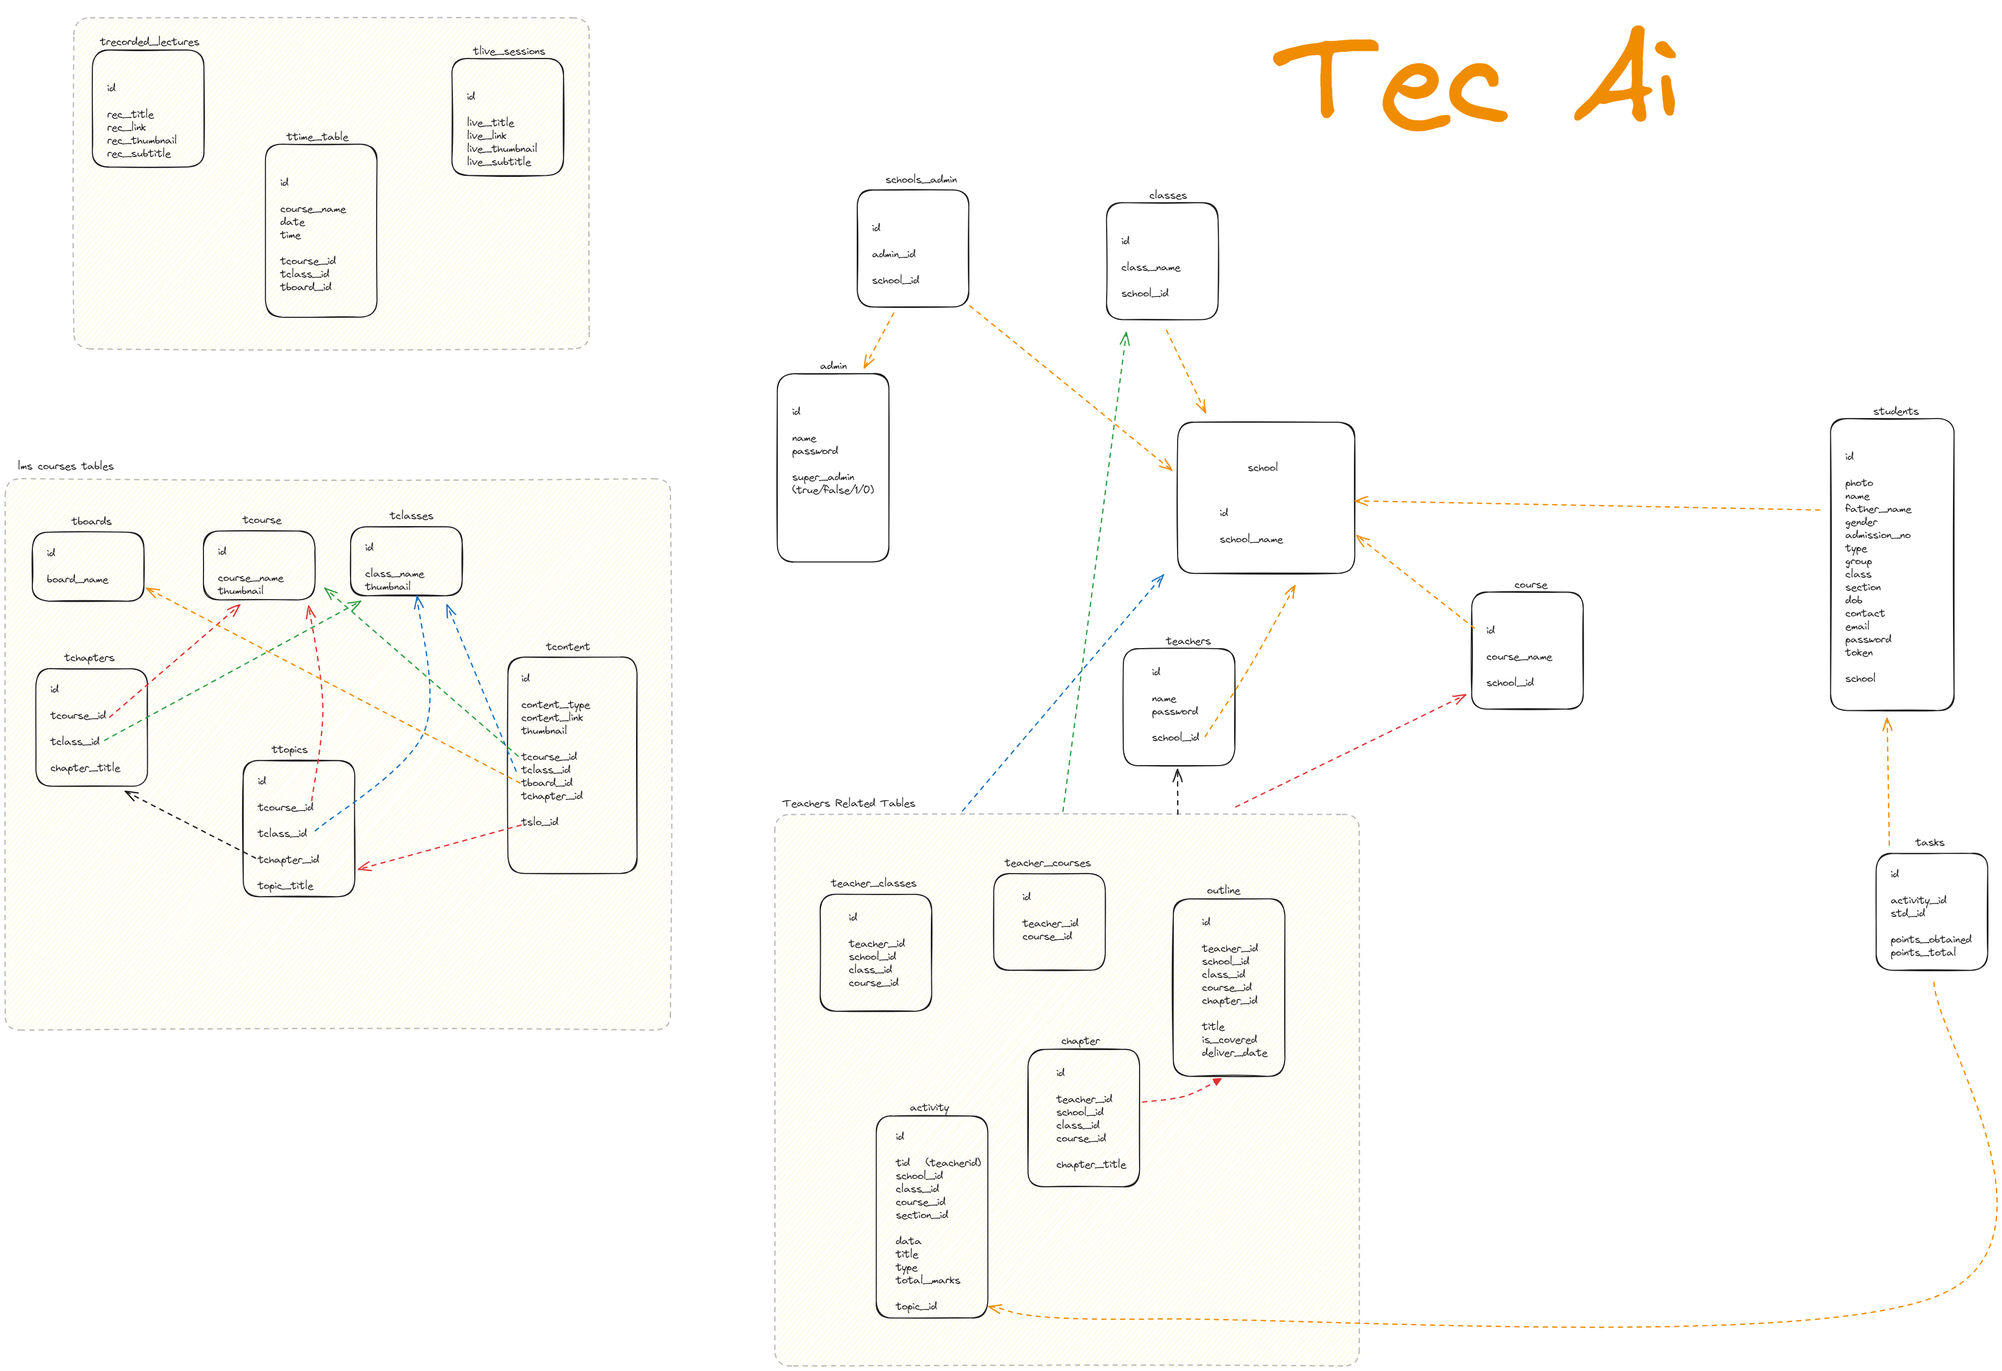
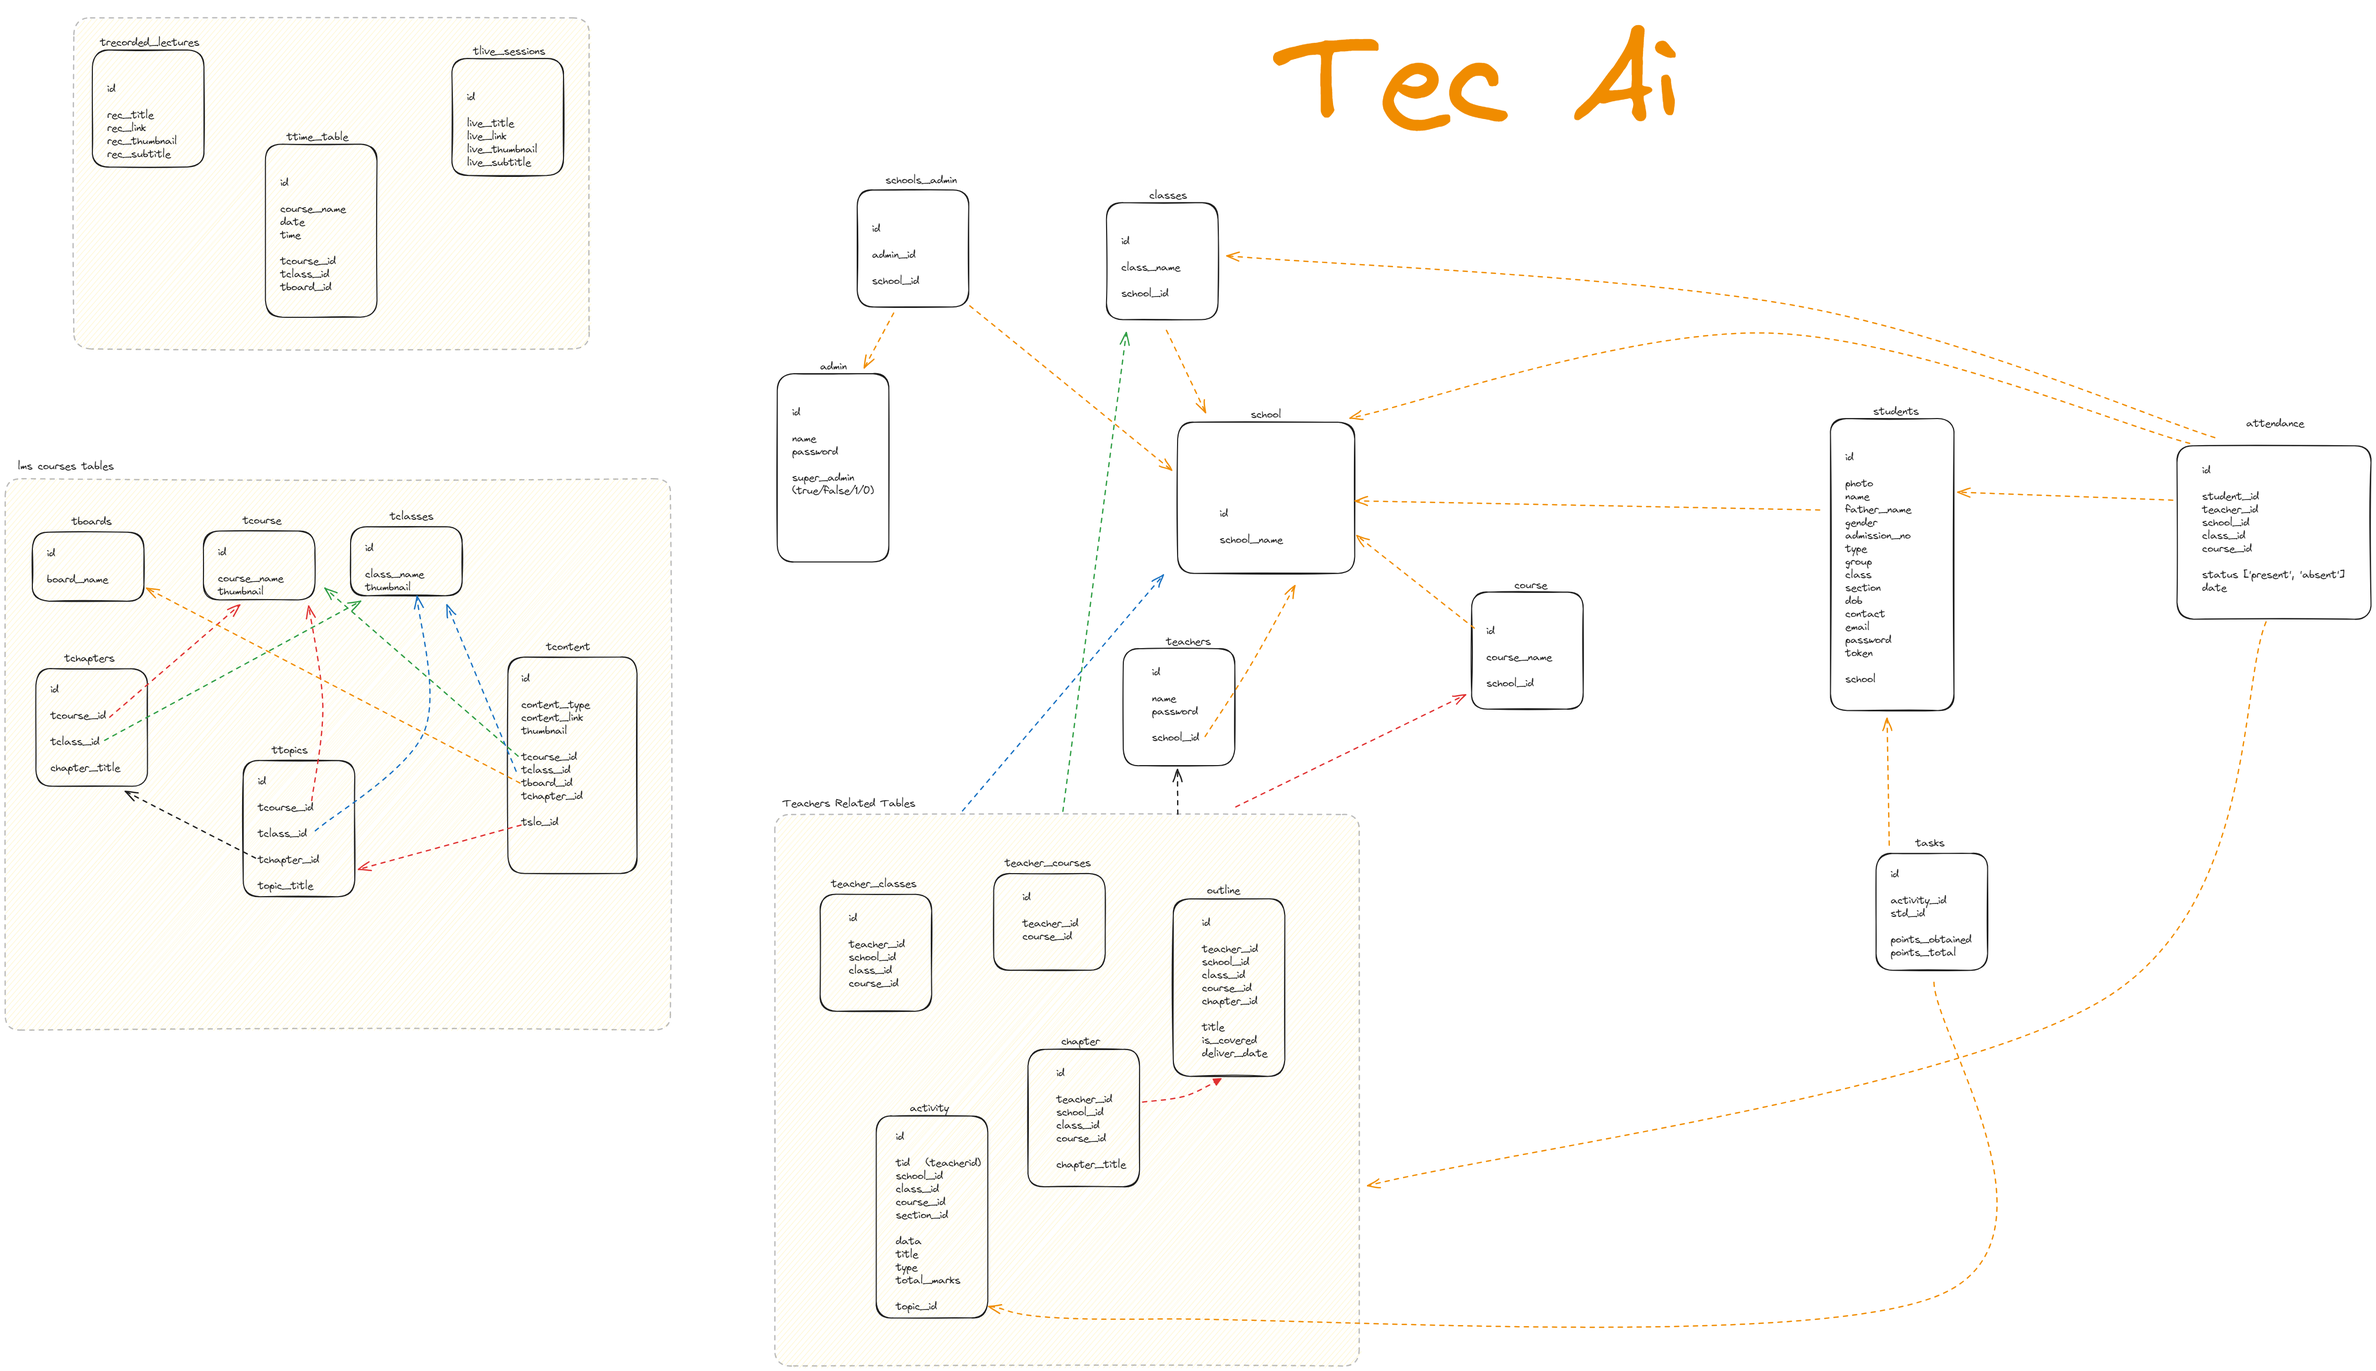
teacher can now add attendance

diff --git a/resources/views/dashboard/teachers/attendance/view.blade.php b/resources/views/dashboard/teachers/attendance/view.blade.php
@@ -10,71 +10,76 @@
         <div class="container-fluid">
             <div class="row mb-2">
                 <div class="col-sm-6">
-                    <h1 class="m-0">Teacher Classes View</h1>
+                    <h1 class="m-0">Teacher Attendance View</h1>
                 </div><!-- /.col -->
                 <div class="col-sm-6">
                     <ol class="breadcrumb float-sm-right">
                         <li class="breadcrumb-item"><a href="#">Home</a></li>
-                        <li class="breadcrumb-item">Classes</li>
+                        <li class="breadcrumb-item">Attendance</li>
                         <li class="breadcrumb-item active">Views</li>
                     </ol>
-                </div><!-- /.col -->
-            </div><!-- /.row -->
-        </div><!-- /.container-fluid -->
+                </div>
+            </div>
+            <div class="row">
+                <div class="col-md-4">
+                    <form  method="post" class="d-flex justify-content-start">
+                        @csrf
+                        @method('POST')
+                        <input type="date" name="date" value="{{ $date ?? '' }}" class="form-control">
+                       <input type="submit" value="filter" class="btn btn-primary">
+                    </form>
+                </div>
+                <div class="col-md-6"></div>
+                <div class="col-md-2">
+                    <a href="{{ route('teacher.attendances.create', ['course_id' => $course_id, 'class_id' => $class_id]) }}" class="btn btn-primary">Add Attendance</a>
+                </div>
+            </div>
+        </div>
     </div>
- 
-    <!-- /.content-header -->
-    <!-- Main content -->
+
     <section class="content">
         <div class="container-fluid">
-            <!-- Small boxes (Stat box) -->
+          
             <div class="card">
                 <div class="card-header">
-                    <h3 class="card-title">Classes</h3>
+                    <h3 class="card-title">Attendance</h3>
                 </div>
-                <!-- /.card-header -->
+               
                 <div class="card-body">
                     <table id="example1" class="table table-bordered table-striped">
                         <thead>
                             <tr>
-                                <th>Students</th>
-                                <th>Outline</th>
-                                <th>Attendance</th>
-                                <th>Grade</th>
-                                <th>Subject</th>
+                                <th>Actions</th>
+                                <th>Student</th>
+                                <th>Status</th>
+                                <th>Date</th>
                             </tr>
                         </thead>
                         <tbody>
                             
-                            @foreach ($classes as $item)
+                            @foreach ($attendance as $item)
                             <tr>
-                                <td class="d-flex justify-content-between" >
-                                    <a >
-                                       Students
+                                <td  >
+                                    <a href="#">
+                                       Edit
                                     </a>
                                 </td>
-                                <td>
-                                    <a href="{{ route('teacher.classe.outline.show', ['class_id' => $item->class_id , 'course_id' => $item->course_id]) }}">
-                                        <i class="fa fa-eye"></i>   outline
-                                    </a>
-                                </td>
-                                <td>
-                                    <a href="{{ route('teacher.attendances.view', ['class_id' => $item->class_id , 'course_id' => $item->course_id]) }}">
-                                        <i class="fa fa-eye"></i>   Attendance
-                                    </a>
-                                </td>
-                                <td>{{ $item->class_name }}</td>
-                                <td>{{ $item->course_name }}</td>
+                            
+                                <td>{{ $item->name }}</td>
+                                <td
+                                  style="color: {{ $item->status == 'present' ? 'green' : ($item->status == 'late' ? 'orange' : 'red') }};
+                                  font-weight: bold;"
+                                >{{ $item->status }}</td>
+                                <td>{{ $item->date }}</td>
                             </tr>
                             @endforeach
                         </tbody>
                         <tfoot>
                             <tr>
-                                <th>Students</th>
-                                <th>Outline</th>
-                                <th>Attendance</th>
-                                <th>Grade</th>
-                                <th>Subject</th>
+                                <th>Actions</th>
+                                <th>Student</th>
+                                <th>Status</th>
+                                <th>Date</th>
                             </tr>
                         </tfoot>
                     </table>
@@ -110,7 +115,7 @@
                 "responsive": true,
                 "lengthChange": false,
                 "autoWidth": false,
-                "buttons": ["copy", "csv", "excel", "pdf", "print", "colvis"]
+                "buttons": ["copy", "csv", "excel", "pdf", "print"]
             }).buttons().container().appendTo('#example1_wrapper .col-md-6:eq(0)');
 
         });

diff --git a/resources/views/dashboard/teachers/attendance/create.blade.php b/resources/views/dashboard/teachers/attendance/create.blade.php
@@ -1,0 +1,120 @@
+@extends('dashboard.common')
+
+@section('sidebar')
+    @include('dashboard.teachers.sidebar')
+@endsection
+
+@section('content')
+    <!-- Content Header (Page header) -->
+    <div class="content-header">
+        <div class="container-fluid">
+            <div class="row mb-2">
+                <div class="col-sm-6">
+                    <h1 class="m-0">Teacher Attendance Create</h1>
+                </div><!-- /.col -->
+                <div class="col-sm-6">
+                    <ol class="breadcrumb float-sm-right">
+                        <li class="breadcrumb-item"><a href="#">Home</a></li>
+                        <li class="breadcrumb-item">Attendance</li>
+                        <li class="breadcrumb-item active">Create</li>
+                    </ol>
+                </div>
+            </div>
+            <div class="row">
+                <div class="col-md-6"></div>
+                <div class="col-md-4">
+                    <select id="attendance-status" class="form-control">
+                        <option value="present">Present</option>
+                        <option value="absent">Absent</option>
+                        <option value="late">Late</option>
+                    </select>
+                </div>
+                <div class="col-md-2">
+                    <button type="button" id="update-attendance" class="btn btn-primary">Apply</button>
+                </div>
+            </div>
+        </div>
+    </div>
+
+    <!-- /.content-header -->
+    <!-- Main content -->
+    <section class="content">
+        <div class="container-fluid">
+            <!-- Small boxes (Stat box) -->
+            <div class="card">
+                <div class="card-header">
+                    <h3 class="card-title">Classes</h3>
+                </div>
+                <!-- /.card-header -->
+                <div class="card-body">
+                    <table id="example1" class="table table-bordered table-striped">
+                        <thead>
+                            <tr>
+                                <th>Actions</th>
+                                <th>Student</th>
+                                <th>Class</th>
+                                <th>Action</th>
+
+                            </tr>
+                        </thead>
+                        <tbody>
+                            <form method="POST">
+                                @foreach ($students as $item)
+                                    <tr>
+                                        <td>
+                                            <a href="#">
+                                                Edit
+                                            </a>
+                                        </td>
+
+                                        <td>{{ $item->name }}</td>
+                                        <td>{{ $item->class }}</td>
+                                        <td>
+                                            <select name="attendance[{{ $item->id }}]" class="form-control">
+                                                <option value="present">present</option>
+                                                <option value="absent">absent</option>
+                                                <option value="late">late</option>
+                                            </select>
+                                        </td>
+
+                                    </tr>
+                                @endforeach
+                        </tbody>
+                        <tfoot>
+                            <tr>
+                                <th>Actions</th>
+                                <th>Student</th>
+                                <th>Class</th>
+                                <th>Action</th>
+                            </tr>
+                        </tfoot>
+                    </table>
+                    <div class="row mt-3">
+                        <div class="col-md-9"></div>
+                        <div class="col-md-3">
+                            <button type="submit" class="btn btn-primary">Submit Attendance</button>
+                        </div>
+                    </div>
+                </div>
+                <!-- /.card-body -->
+            </div>
+            <!-- /.row -->
+            <!-- Main row -->
+
+            <!-- /.row (main row) -->
+        </div><!-- /.container-fluid -->
+    </section>
+    <!-- /.content -->
+@endsection
+
+
+@section('footer')
+<script>
+    $(document).ready(function() {
+        $('#update-attendance').click(function() {
+            var status = $('#attendance-status').val();
+            $('select[name^="attendance"]').val(status);
+        });
+    });
+</script>
+@endsection

diff --git a/app/Http/Controllers/AttendanceController.php b/app/Http/Controllers/AttendanceController.php
@@ -1,0 +1,101 @@
+<?php
+
+namespace App\Http\Controllers;
+
+use Illuminate\Http\Request;
+use App\Models\Attendance;
+use App\Models\students;
+
+class AttendanceController extends Controller
+{
+    public function TeacherViewAttendance(Request $request)
+    {
+
+        $class_id = $request->class_id;
+        $course_id = $request->course_id;
+
+        $date = now();
+
+        $attendance = Attendance::where('class_id', $class_id)
+            ->where('course_id', $course_id)
+            ->whereDate('date', '=', $date)
+            ->join('students', 'attendance.student_id', '=', 'students.id')
+            ->join('classes', 'attendance.class_id', '=', 'classes.id')
+            ->join('course', 'attendance.course_id', '=', 'course.id')
+            ->select('attendance.*', 'students.name', 'classes.class_name', 'course.course_name')
+            ->get();
+
+        return view('dashboard.teachers.attendance.view', compact('attendance', 'class_id', 'course_id'));
+    }
+    public function TeacherViewAttendanceByDate(Request $request)
+    {
+        $class_id = $request->class_id;
+        $course_id = $request->course_id;
+        $date = now();
+        if($request->date){
+            $date = $request->date;
+        }
+        $attendance = Attendance::where('class_id', $class_id)
+            ->where('course_id', $course_id)
+            ->whereDate('date', '=', $date)
+            ->join('students', 'attendance.student_id', '=', 'students.id')
+            ->join('classes', 'attendance.class_id', '=', 'classes.id')
+            ->join('course', 'attendance.course_id', '=', 'course.id')
+            ->select('attendance.*', 'students.name', 'classes.class_name', 'course.course_name')
+            ->get();
+
+        return view(
+            'dashboard.teachers.attendance.view',
+            compact(
+                'attendance',
+                'class_id',
+                'course_id',
+                'date'
+            )
+        );
+
+    }
+    public function TeacherCreateAttendance(Request $request)
+    {
+
+        $class_id = $request->class_id;
+        $course_id = $request->course_id;
+
+        $school_id = session('user')['school_id'];
+
+        $students = students::where('school', $school_id)
+            ->join('classes', 'students.class', '=', 'classes.class_name')
+            ->where('classes.id', $class_id)
+            ->select('students.*', 'classes.class_name')
+            ->get();
+
+
+        return view('dashboard.teachers.attendance.create', compact('class_id', 'course_id', 'students'));
+    }
+
+    public function TeacherStoreAttendance(Request $request)
+    {
+        $attendanceData = $request->input('attendance');
+
+        // Process the attendance data and save it to the database
+        foreach ($attendanceData as $studentId => $status) {
+            // Save the attendance record for each student in the database
+            Attendance::create([
+                'student_id' => $studentId,
+                'status' => $status,
+                'class_id' => $request->class_id,
+                'course_id' => $request->course_id,
+                'date' => now(),
+                'teacher_id' => session('user')['id'],
+                'school_id' => session('user')['school_id'],
+            ]);
+        }
+
+        return redirect()->route('teacher.attendances.view', [
+            'class_id' => $request->class_id,
+            'course_id' =>
+                $request->course_id
+        ]);
+    }
+
+}

diff --git a/routes/teachers.routes.php b/routes/teachers.routes.php
@@ -58,7 +58,7 @@ Route::middleware('CheckTeacher')->prefix('/teacher')->group(function () {
      *  # Display List
      */
     Route::get('/classes/view', [App\Http\Controllers\TeachersController::class, 'TeacherViewClasses'])
-        ->name('teacher.classes.view'); 
+        ->name('teacher.classes.view');
     /**
      *  Route : Teacher / Class  Course Outline View
      *  # Display List
@@ -69,5 +69,20 @@ Route::middleware('CheckTeacher')->prefix('/teacher')->group(function () {
         ->name('teacher.classe.outline.put');
     Route::delete('/{class_id}/{course_id}/outline', [App\Http\Controllers\TeachersController::class, 'TeacherDeleteOutline'])
         ->name('teacher.classe.outline.remove');
+
+
+    /**
+     *  Route : Teacher / Class Attendance
+     *  # Display List
+     */
+    Route::get('/{class_id}/{course_id}/attendance/view', [App\Http\Controllers\AttendanceController::class, 'TeacherViewAttendance'])
+        ->name('teacher.attendances.view');
+    Route::post('/{class_id}/{course_id}/attendance/view', [App\Http\Controllers\AttendanceController::class, 'TeacherViewAttendanceByDate'])
+        ->name('teacher.attendances.view');
+    
+    Route::get('/{class_id}/{course_id}/attendance/create', [App\Http\Controllers\AttendanceController::class, 'TeacherCreateAttendance'])
+        ->name('teacher.attendances.create');
+    Route::post('/{class_id}/{course_id}/attendance/create', [App\Http\Controllers\AttendanceController::class, 'TeacherStoreAttendance'])
+        ->name('teacher.attendances.create.post');
 
 });

diff --git a/app/Models/Attendance.php b/app/Models/Attendance.php
@@ -1,0 +1,23 @@
+<?php
+
+namespace App\Models;
+
+use Illuminate\Database\Eloquent\Factories\HasFactory;
+use Illuminate\Database\Eloquent\Model;
+
+class Attendance extends Model
+{
+    use HasFactory;
+
+    
+    protected $table = 'attendance';
+    protected $fillable = [
+        'school_id',
+        'student_id',
+        'teacher_id',
+        'class_id',
+        'course_id',
+        'status',
+        'date',
+    ];
+}
